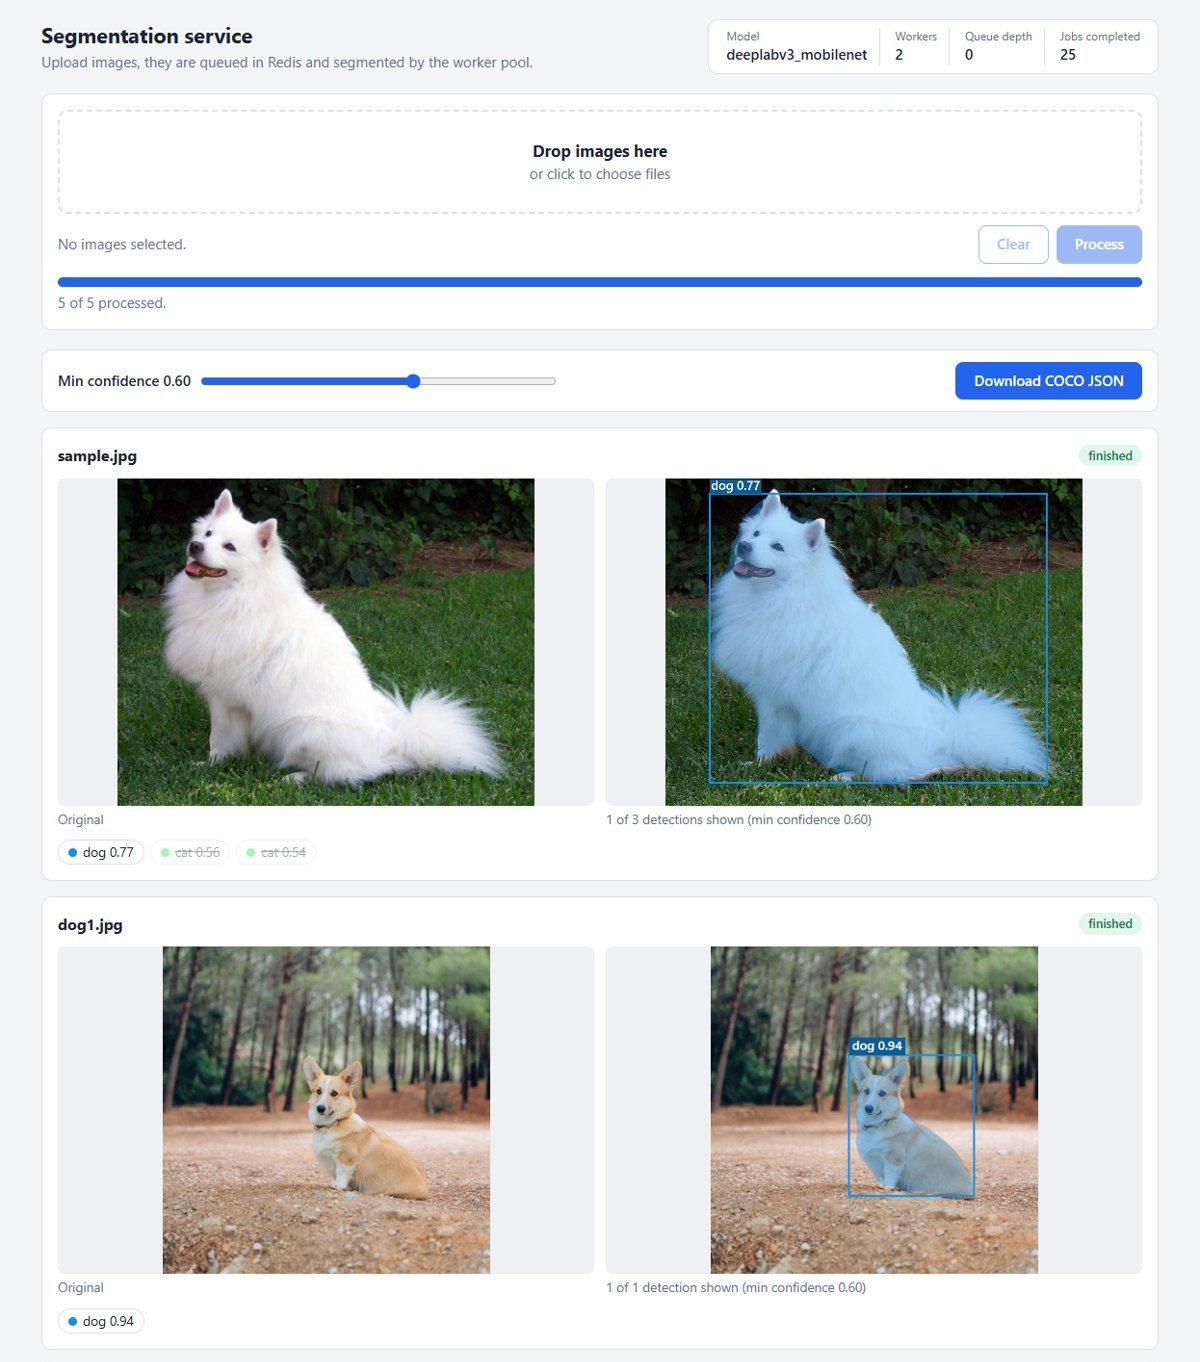
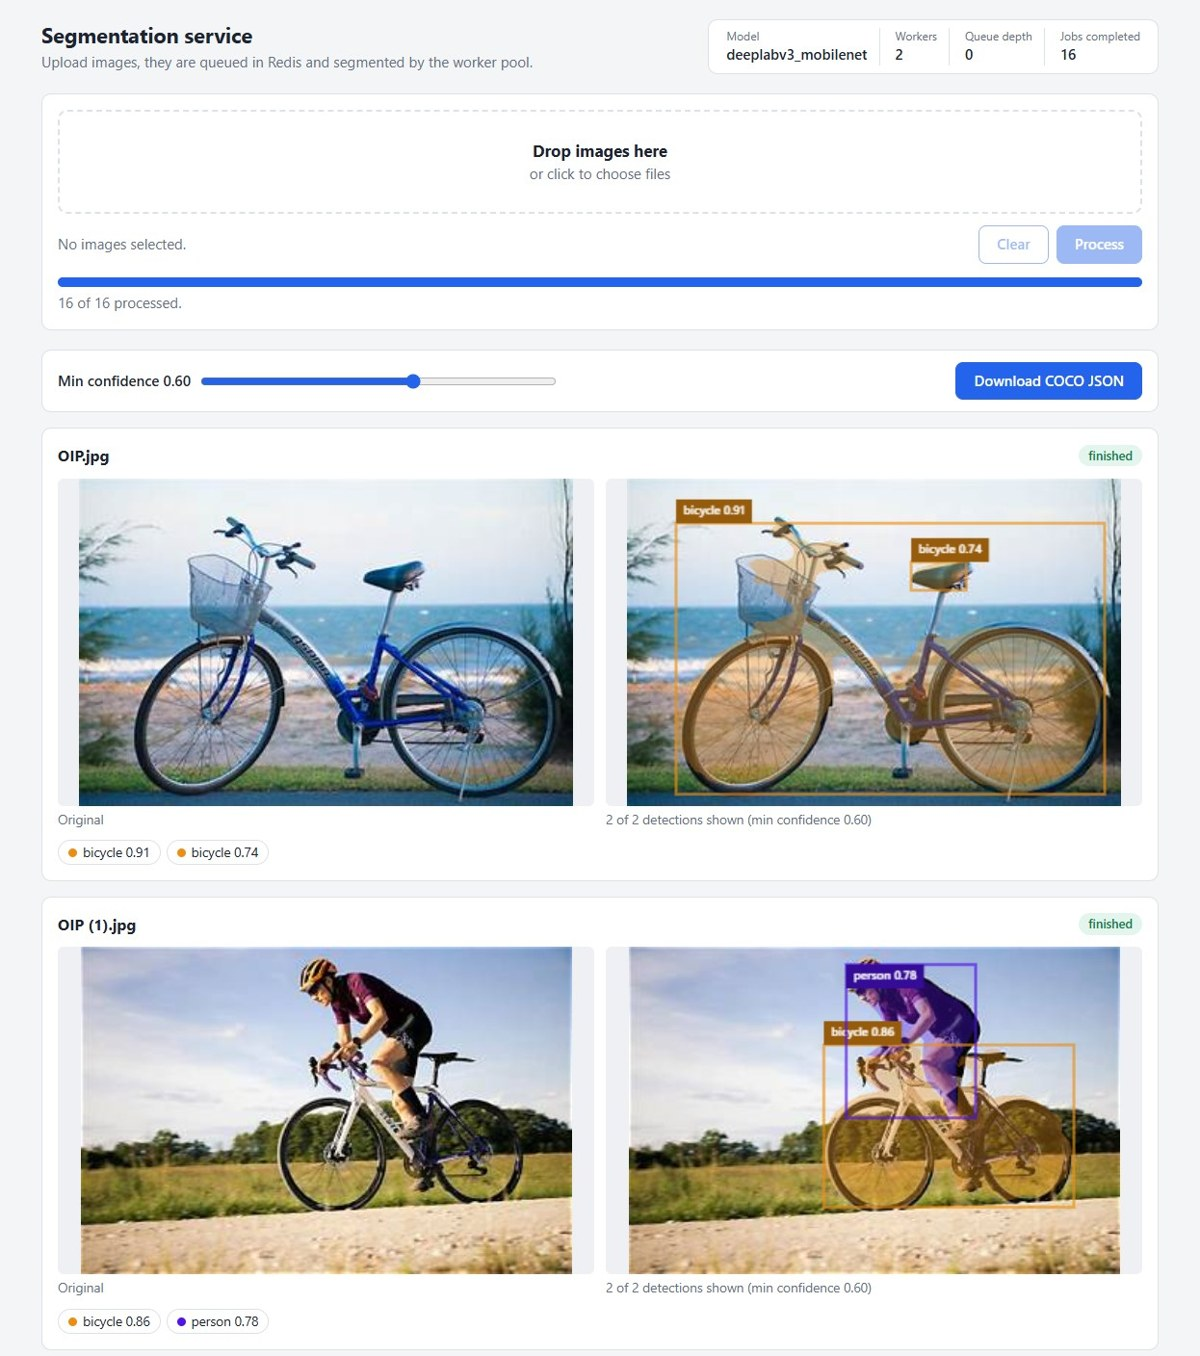
Replace the web app screenshot with a 16-photo batch run
Take a new screenshot of the results gallery after processing a batch of
16 photos with two DeepLabV3 workers, update its caption in the README,
and ignore docs/screenshot_inputs/ so the input photos are not committed.

diff --git a/README.md b/README.md
@@ -29,9 +29,9 @@ The first build takes a few minutes, because it downloads PyTorch to export the 
 
 The status panel in the top right shows the model, worker count, queue depth and jobs completed, read from `/metrics` every 2 seconds.
 
-![The web app after processing five images](docs/frontend.jpg)
+![The web app after processing a batch of 16 photos](docs/frontend.jpg)
 
-*Screenshot: five images processed by two DeepLabV3 workers. On the first image, two low-confidence "cat" detections (0.56 and 0.54) are crossed out because they are below the 0.60 slider value.*
+*Screenshot: a batch of 16 photos processed by two DeepLabV3 workers (the first two results are shown). On the first photo the saddle gets its own "bicycle 0.74" box: its pixels form a separate blob from the frame, a side effect of turning the mask into objects with connected components.*
 
 ### How it works
 
